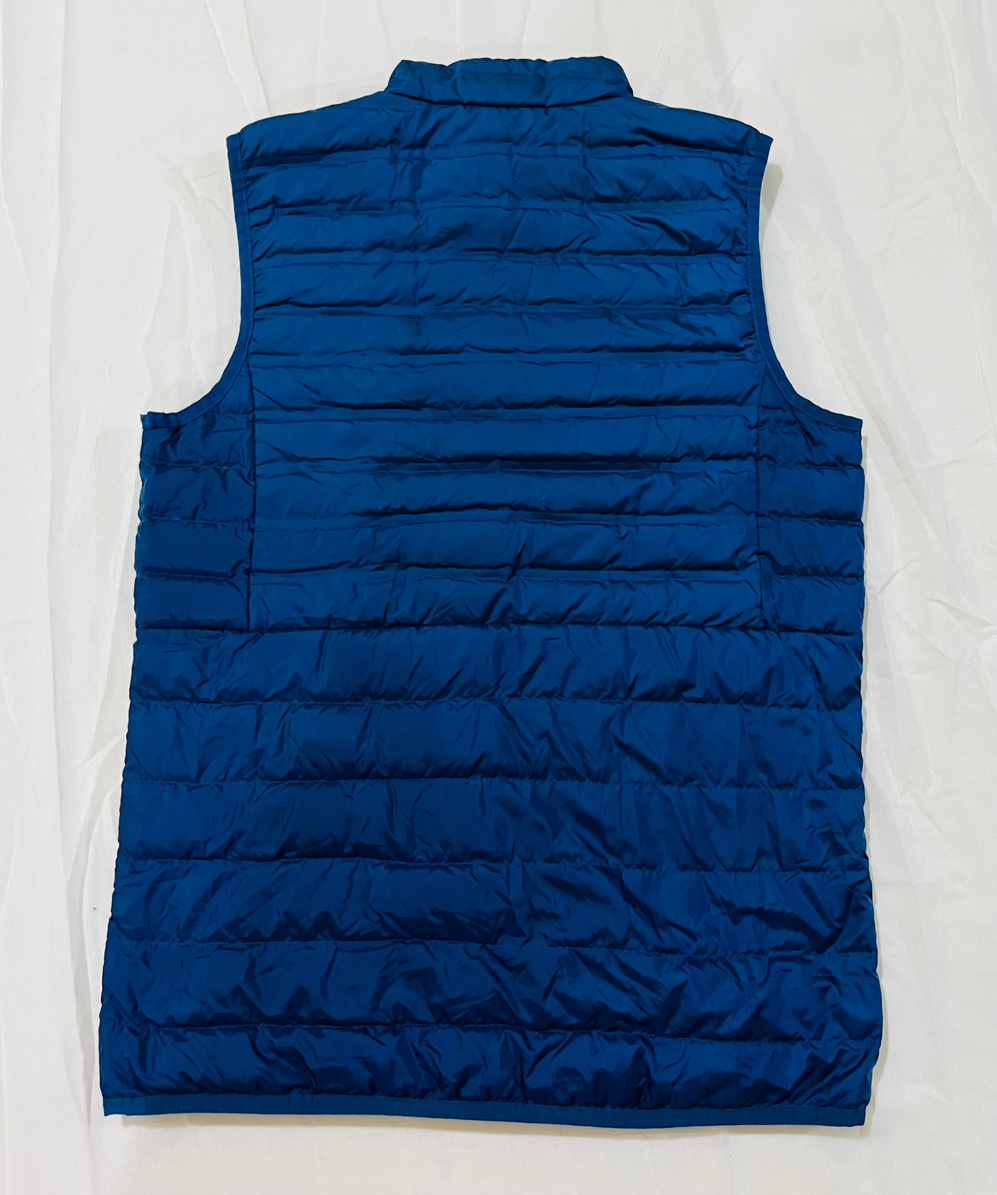
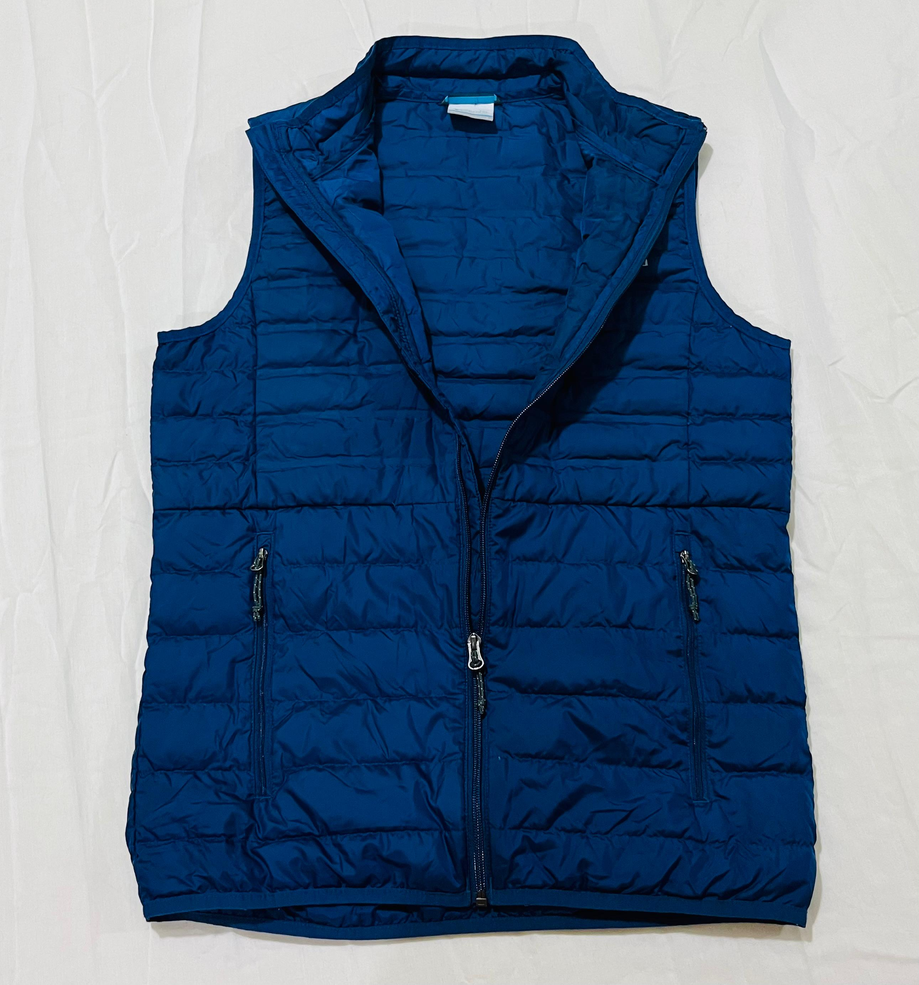
Se agrego foto faltante
Foto faltante de Chumpa 004

Changed region(s): [[0.062, 0.0311, 0.8992, 0.9642]]

diff --git a/chumpas.html b/chumpas.html
@@ -126,6 +126,7 @@
           <div class="slides">
             <a href="#ch004-a"><img src="images/chumpa004-a.jpg" alt="imagen1"></a>
             <a href="#ch004-b"><img src="images/chumpa004-b.jpg" alt="imagen2"></a>
+            <a href="#ch004-b"><img src="images/chumpa004-c.jpg" alt="imagen2"></a>
           </div>
         </div>
         <div class="body">
@@ -145,6 +146,10 @@
       <div class="lightbox" id="ch004-b">
         <a href="#prod4" class="close">&times;</a>
         <img src="images/chumpa004-b.jpg" alt="imagen2 grande">
+      </div>
+      <div class="lightbox" id="ch004-c">
+        <a href="#prod4" class="close">&times;</a>
+        <img src="images/chumpa004-c.jpg" alt="imagen2 grande">
       </div>
 
       <!-- Producto 5 -->
